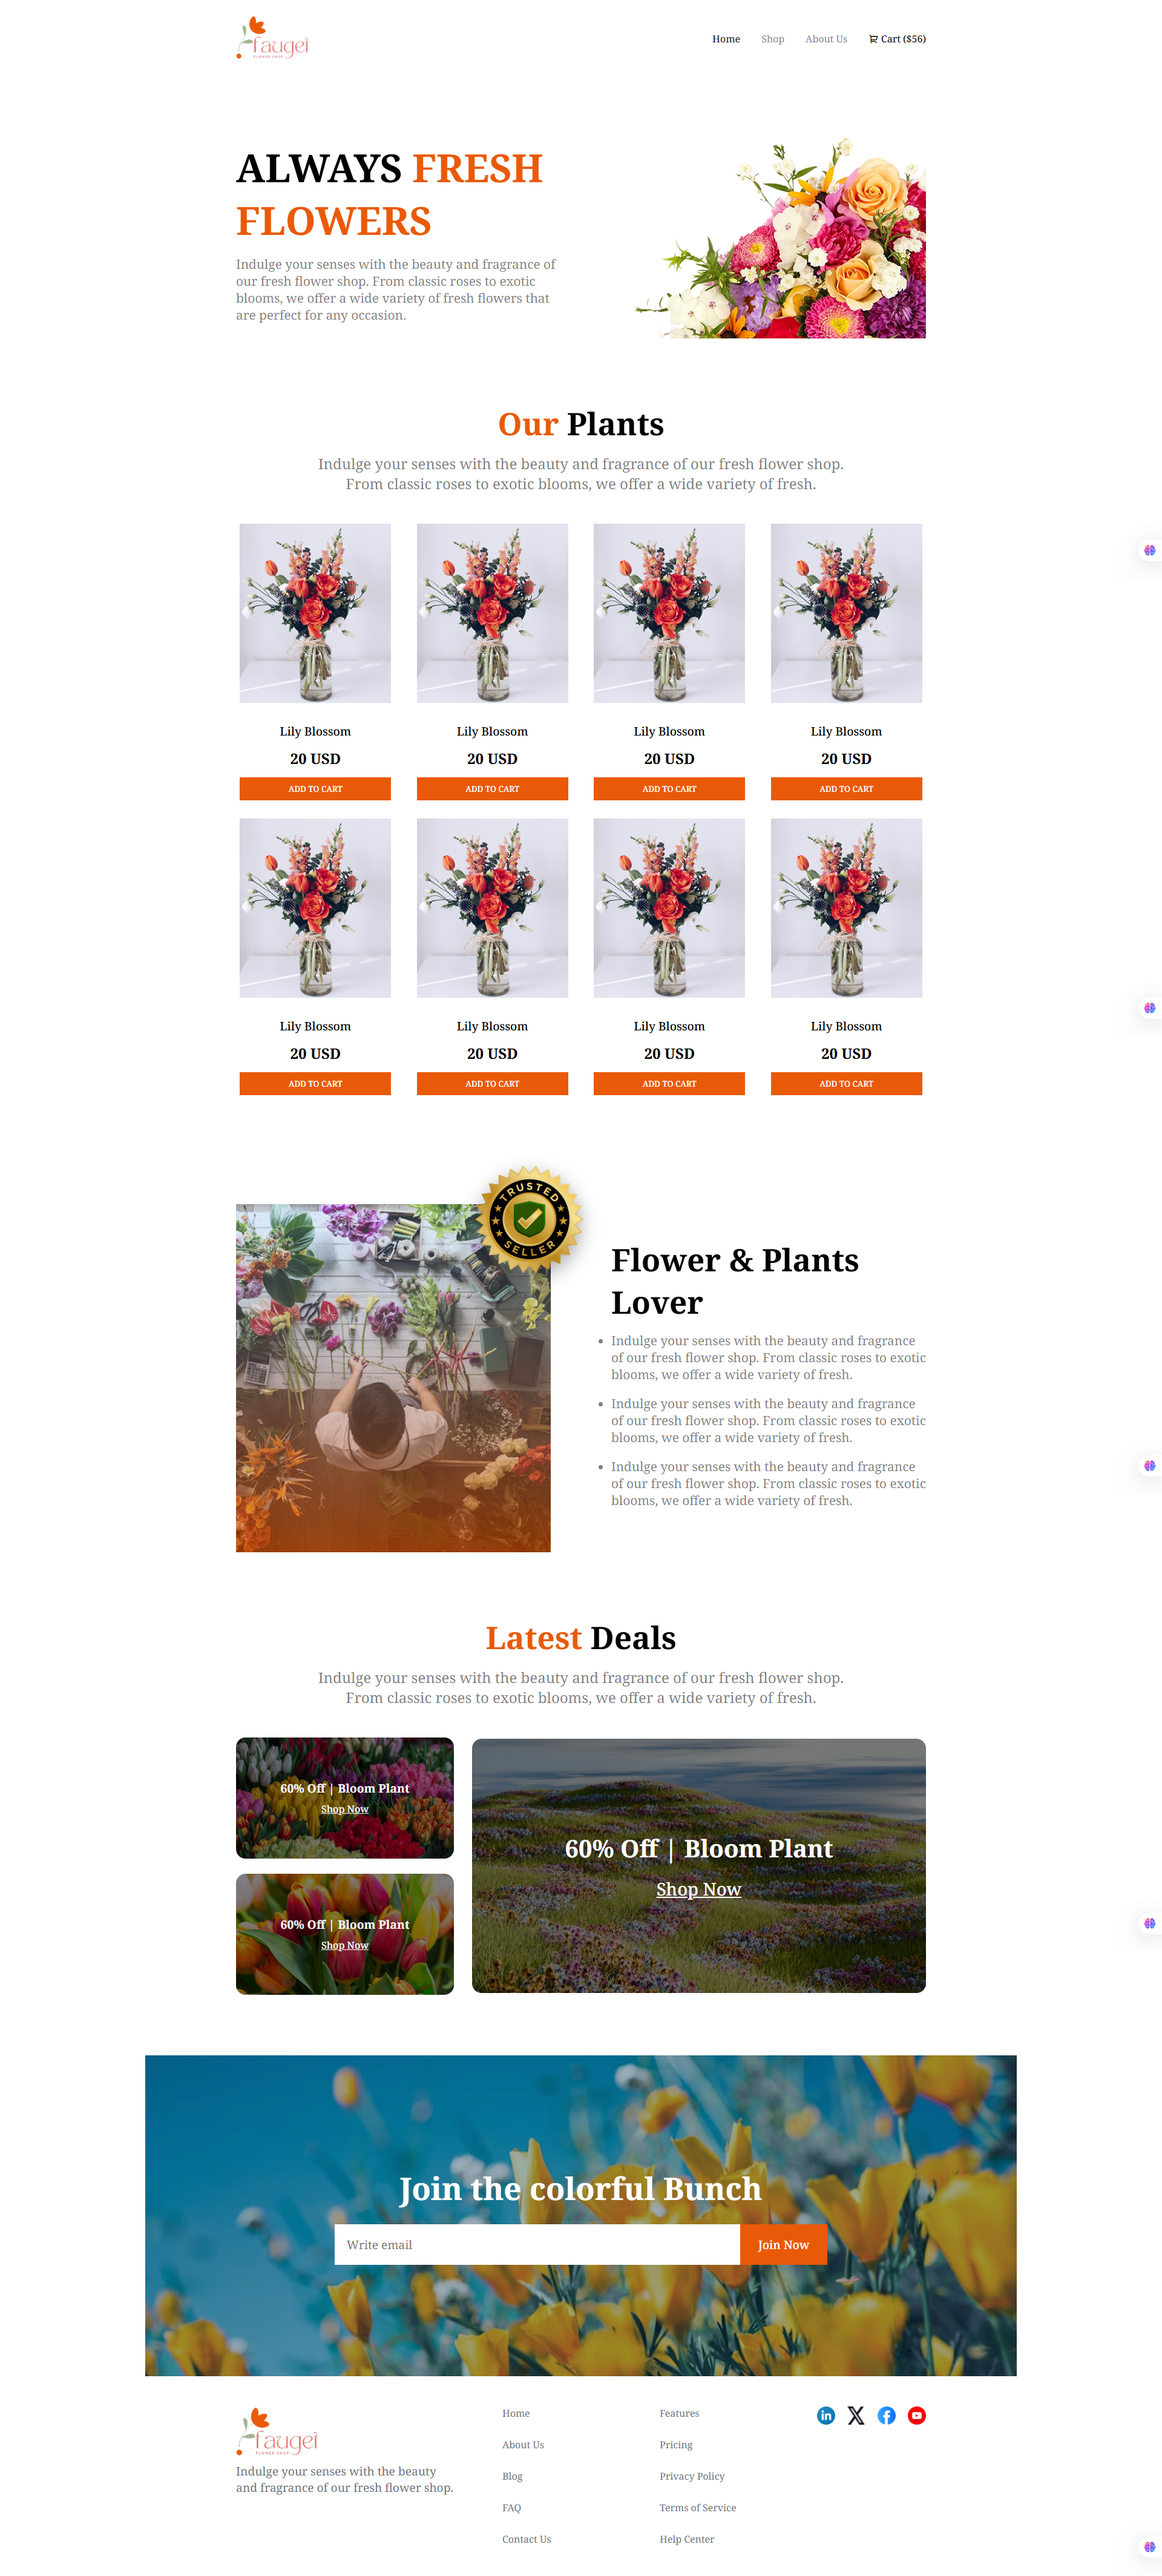
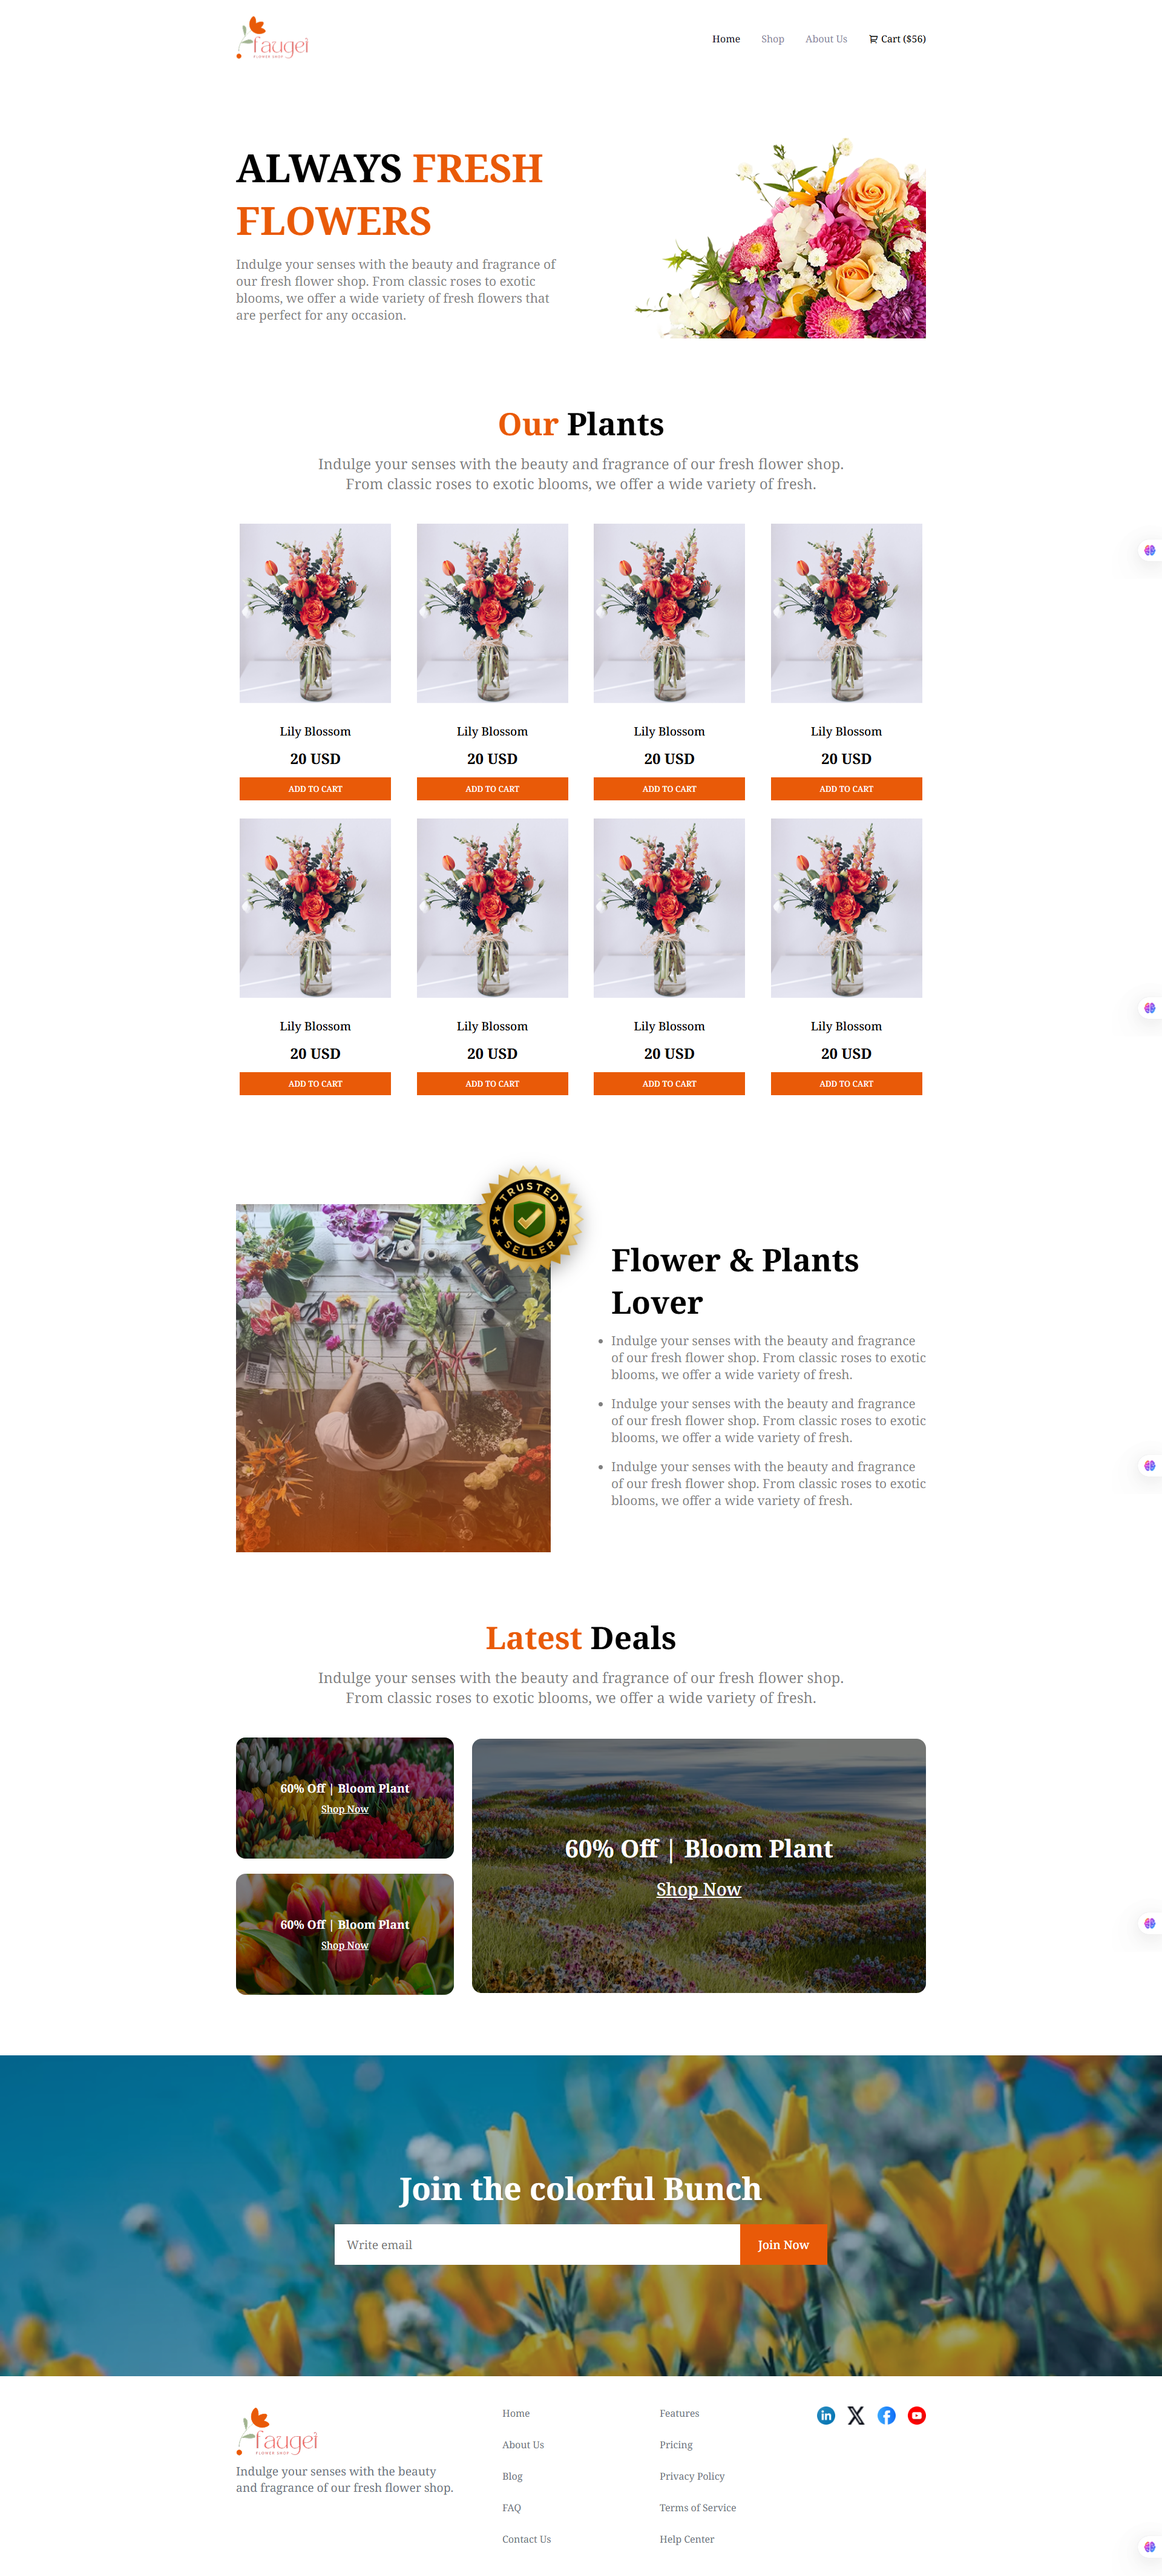
some update css file and cng demo img

Changed region(s): [[0.0, 0.7756, 1.0, 0.9307]]

diff --git a/styles/style.css b/styles/style.css
@@ -341,8 +341,6 @@
     text-align: center;
     gap: 25px;
     height: 530px;
-    max-width: 1440px;
-    margin: 0 auto;
 }
 
 .join-title {
@@ -432,7 +430,7 @@
 
 /* Responsive Mobile device */
 
-@media (max-width: 767px) {
+@media (max-width: 576px) {
 
     .page-container {
         margin-bottom: 60px;
